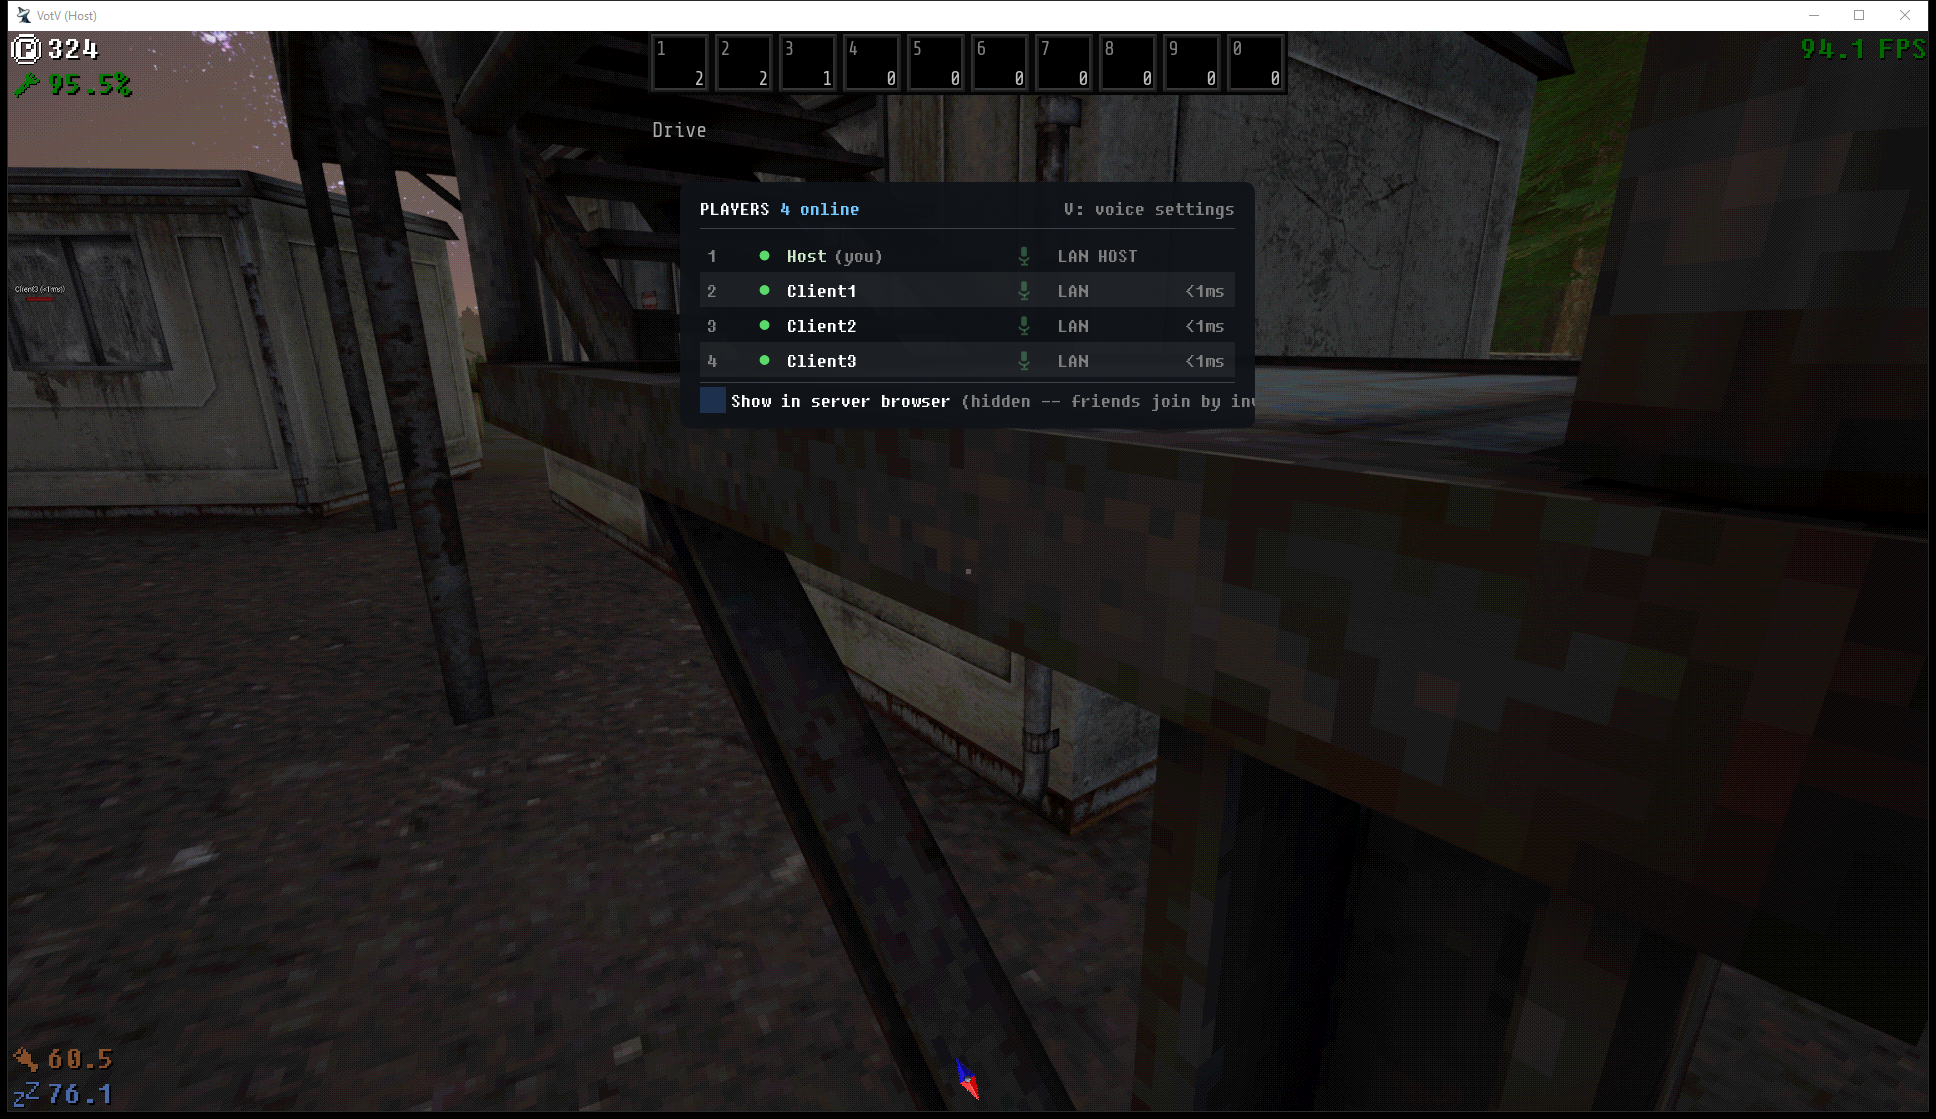
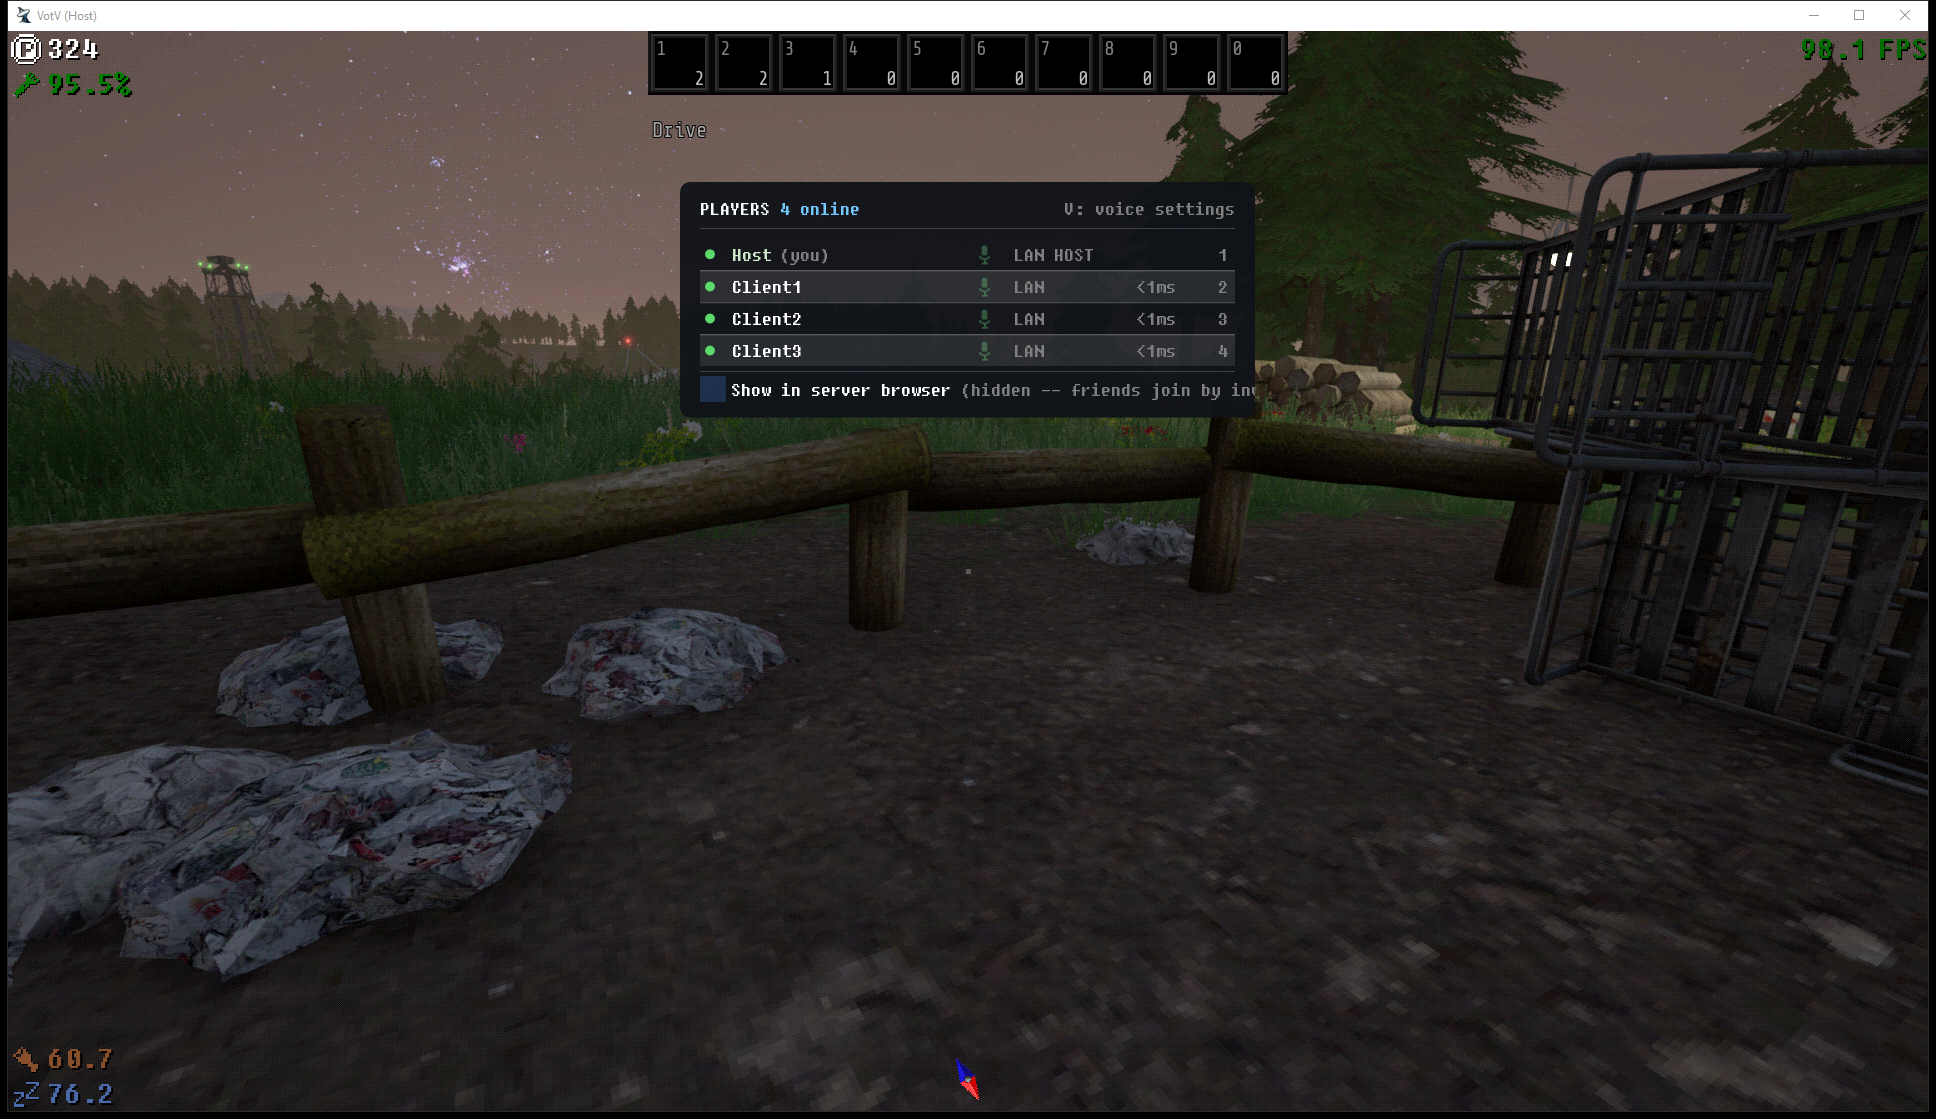
[ui] player list: ID to the far right, rows made scannable, own row no longer blank
Three verdicts from the user on the first screenshot of this surface
(2026-07-27), which is the auto-runbook loop doing its job -- none of these are
visible in a log, and all three had survived because nobody had looked at the
board with four peers on it.

ID COLUMN TO THE FAR RIGHT. It led the row, which put the least-scanned field
where the eye lands and pushed the NAME -- the thing anyone actually looks for --
off the left edge. Now last and right-aligned, so the numbers form a clean edge
instead of a ragged one against the ping cell.

ROWS WERE NOT DISTINGUISHABLE. RowBg was already on; its default stripe is simply
invisible over a dark, busy 3D backdrop. First attempt (0.055 alt tint / 0.10
border) was still unreadable in the re-shot screenshot, which is the value of
photographing rather than reasoning about it. Three cues now: a visible
alternating tint, a real separator line, and vertical cell padding so the rows
are not one block of text.

THE OWN ROW'S LINK WAS EMPTY ON A CLIENT. This was a stated decision --
"its link is already shown on the host row" -- and the reasoning was wrong. On a
client's board every other row answers "how is this person reachable from here",
so a blank in that column reads as one broken entry among three working ones,
which is exactly how the user read it. Your own row now shows the transport YOU
are attached by, mirroring the host's own row, which likewise describes how the
local peer is attached.
[…]

diff --git a/src/votv-coop/src/ui/scoreboard.cpp b/src/votv-coop/src/ui/scoreboard.cpp
@@ -104,15 +104,21 @@ void Render() {
         // host-standard admin verbs, no dev gate). A client's board (and the host's
         // own row) is plain text -- the client peek is passive (no input capture).
         const bool host = LocalIsHost();
-        const ImGuiTableFlags tflags = ImGuiTableFlags_RowBg | ImGuiTableFlags_PadOuterX;
+        // BordersInnerH + a lifted alt-row tint: with RowBg alone the stripes were
+        // invisible over the dark overlay and the rows read as one block (user
+        // 2026-07-27, on the first screenshot of this surface).
+        const ImGuiTableFlags tflags =
+            ImGuiTableFlags_RowBg | ImGuiTableFlags_PadOuterX | ImGuiTableFlags_BordersInnerH;
         const bool voiceOn = vs.enabled != 0 && vs.started != 0;
+        // First attempt used 0.055 / 0.10 alpha and was still unreadable in a
+        // screenshot -- over a dark, busy 3D backdrop a stripe has to be far
+        // stronger than it would need to be on a flat UI. Three cues now, not one:
+        // a visible alternating tint, a real separator line, and vertical breathing
+        // room so the rows are not one block of text.
+        ImGui::PushStyleColor(ImGuiCol_TableRowBgAlt, ImVec4(1.0f, 1.0f, 1.0f, 0.10f));
+        ImGui::PushStyleColor(ImGuiCol_TableBorderLight, ImVec4(1.0f, 1.0f, 1.0f, 0.28f));
+        ImGui::PushStyleVar(ImGuiStyleVar_CellPadding, ImVec2(S(4.0f), S(5.0f)));
         if (ImGui::BeginTable("##roster", voiceOn ? 5 : 4, tflags)) {
-            // ID (arc A): the occupant's session number, host-issued and never
-            // reused within a session. It is NOT the slot -- slots recycle, so a
-            // slot number names a seat, not a person -- and it is deliberately
-            // NOT shown on the nameplate (user 2026-07-27); TAB is where the full
-            // information lives, SA-MP-shaped.
-            ImGui::TableSetupColumn("ID", ImGuiTableColumnFlags_WidthFixed, S(30.0f));
             ImGui::TableSetupColumn("Player", ImGuiTableColumnFlags_WidthStretch);
             // Voice state icon (v66; the user's mute-icon-on-playerlist ask).
             // Click = self: toggle mute; remote: per-player volume popup.
@@ -122,6 +128,16 @@ void Render() {
             // "P2P"/"P2P RELAY"; "VIA HOST" for peer clients on a client board).
             ImGui::TableSetupColumn("Link", ImGuiTableColumnFlags_WidthFixed, S(72.0f));
             ImGui::TableSetupColumn("Ping", ImGuiTableColumnFlags_WidthFixed, S(50.0f));
+            // ID (arc A): the occupant's session number, host-issued and never
+            // reused within a session. It is NOT the slot -- slots recycle, so a
+            // slot number names a seat, not a person -- and it is deliberately
+            // NOT shown on the nameplate (user 2026-07-27); TAB is where the full
+            // information lives, SA-MP-shaped.
+            //
+            // FAR RIGHT (user 2026-07-27). It led the row at first, which put the
+            // least-scanned field where the eye lands and pushed the NAME -- the
+            // thing anyone actually looks for -- off the left edge.
+            ImGui::TableSetupColumn("ID", ImGuiTableColumnFlags_WidthFixed, S(34.0f));
             for (int i = 0; i < s.count; ++i) {
                 const coop::roster::Row& r = s.rows[i];
                 const char* nick = r.nick[0] ? r.nick : (r.isLocal ? "Player" : "Remote player");
@@ -141,11 +157,6 @@ void Render() {
                 ImGui::TableNextRow();
                 ImGui::TableSetColumnIndex(0);
                 ImGui::PushID(r.slot);
-                if (r.playerNo != coop::roster::kNoPlayerNo)
-                    ImGui::TextDisabled("%u", static_cast<unsigned>(r.playerNo));
-                else
-                    ImGui::TextDisabled("-");   // out of session: no host issued one
-                ImGui::TableSetColumnIndex(1);
                 StatusDot(r.connected);
                 ImGui::SameLine();
 
@@ -202,7 +213,7 @@ void Render() {
                 // Voice column (v66): the per-player mic-state icon. Self row:
                 // click toggles your mute. Remote row: click opens the local
                 // mute/volume popup (SetSlotVolume is render-thread-safe).
-                int col = 2;  // 0 = ID, 1 = Player; the rest follow
+                int col = 1;  // 0 = Player; Mic/Link/Ping/ID follow in that order
                 if (voiceOn) {
                     ImGui::TableSetColumnIndex(col++);
                     const bool self = r.isLocal;
@@ -264,7 +275,7 @@ void Render() {
                 // Ping column: per-peer RTT, right-aligned (remote connected peers only;
                 // you have no self-ping). 0 on a sub-ms LAN shows "<1ms"; -1 (unsampled)
                 // shows "--".
-                ImGui::TableSetColumnIndex(col);
+                ImGui::TableSetColumnIndex(col++);
                 if (!r.isLocal && r.connected) {
                     char pb[16];
                     if (r.ping > 0)       std::snprintf(pb, sizeof(pb), "%dms", r.ping);
@@ -275,10 +286,27 @@ void Render() {
                     if (cw > tw) ImGui::SetCursorPosX(ImGui::GetCursorPosX() + (cw - tw));
                     ImGui::TextDisabled("%s", pb);
                 }
+
+                // ID column, LAST and right-aligned so the numbers form a clean edge
+                // instead of a ragged one against the ping cell.
+                ImGui::TableSetColumnIndex(col);
+                {
+                    char ib[16];
+                    if (r.playerNo != coop::roster::kNoPlayerNo)
+                        std::snprintf(ib, sizeof(ib), "%u", static_cast<unsigned>(r.playerNo));
+                    else
+                        std::snprintf(ib, sizeof(ib), "-");  // out of session: none issued
+                    const float tw = ImGui::CalcTextSize(ib).x;
+                    const float cw = ImGui::GetContentRegionAvail().x;
+                    if (cw > tw) ImGui::SetCursorPosX(ImGui::GetCursorPosX() + (cw - tw));
+                    ImGui::TextDisabled("%s", ib);
+                }
                 ImGui::PopID();
             }
             ImGui::EndTable();
         }
+        ImGui::PopStyleVar();     // CellPadding
+        ImGui::PopStyleColor(2);  // TableRowBgAlt + TableBorderLight
         if (s.count == 0) ImGui::TextDisabled("No players.");
 
         // Host-only "Hide from server browser" toggle (user 2026-06-11). This is

diff --git a/src/votv-coop/src/coop/player/roster.cpp b/src/votv-coop/src/coop/player/roster.cpp
@@ -125,6 +125,16 @@ void Refresh() {
             s->LinkLabelForSlot(slot, r.link, sizeof(r.link));  // a client's real link
         } else if (slot == 0) {
             s->LinkLabelForSlot(0, r.link, sizeof(r.link));     // my own link to the host
+        } else if (rowIsLocal) {
+            // A CLIENT's OWN row. It used to be left blank on the theory that our
+            // link is "already shown on the host row" -- but the board then reads
+            // as three peers with a connection and one broken entry, which is
+            // exactly how the user read it (2026-07-27). Show the transport WE are
+            // attached by: on a client's board every other row already answers
+            // "how is this person reachable from here", and the honest answer for
+            // yourself is your own link, not silence. Mirrors the host's own row,
+            // which likewise describes how the local peer is attached.
+            s->LinkLabelForSlot(0, r.link, sizeof(r.link));
         } else if (!rowIsLocal) {
             std::snprintf(r.link, sizeof(r.link), "VIA HOST");
             // Arc A cosmetic follow-through: these rows are rendered on a CLIENT
